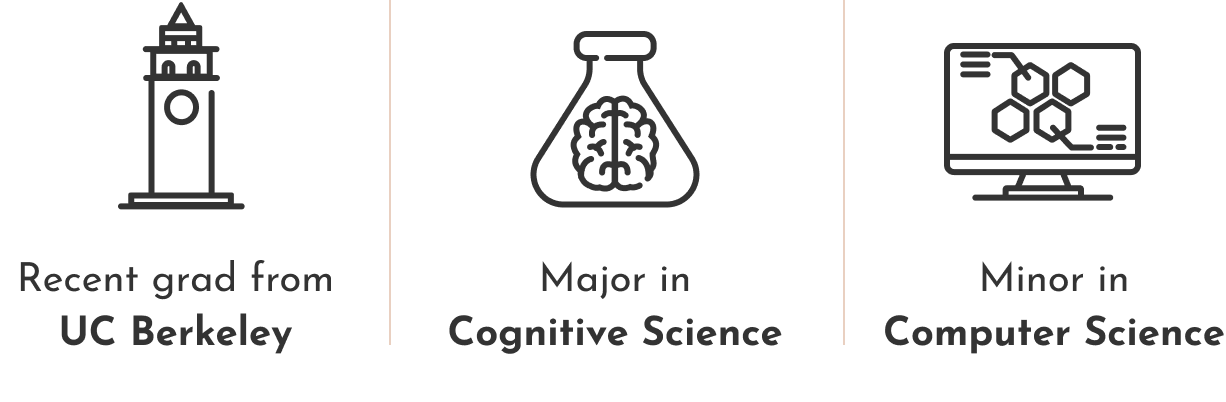
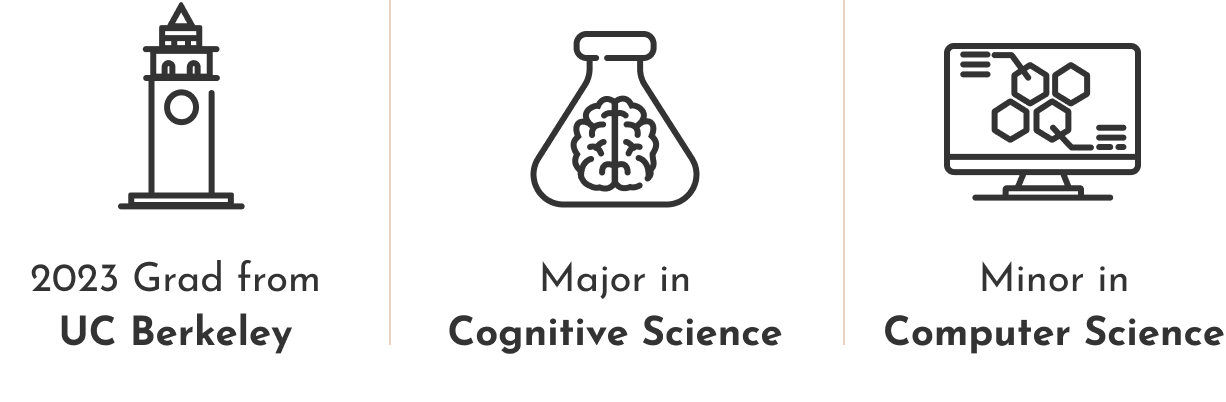
added art page and updated info

Changed region(s): [[0.0, 0.6269, 0.279, 0.7463]]

diff --git a/src/pages/About/About.tsx b/src/pages/About/About.tsx
@@ -24,19 +24,20 @@ const About = () => {
               Background
             </Typography>
             <Typography variant="body2">
-              I have a very technical education because of my courses and
-              involvment in two tech clubs on campus. I gained a lot of
-              technical experience through my on-campus organization called
-              Blueprint, where we build web and mobile applications for
-              non-profits. All of my design skills are from online courses,
-              youtube videos, and a lot of google searches! I gained industry
-              experience in the past two years through design and software
-              engineering internships, and am now{" "}
+              Hi! My name is Sami and I'm a developer with previous experience
+              as a designer. My coding background comes from my CS courses and
+              involvment in two tech clubs during my time at Berkeley. In
+              college, I gained a lot of technical experience through my
+              on-campus organization called Blueprint, where we built web and
+              mobile applications for non-profits. All of my design skills are
+              from online courses, youtube videos, and a lot of google searches!
+              I gained industry experience throughout the past three years
+              through my current full-time Web Developer role as well as design
+              and software engineering internships in the past. I am always{" "}
               <span style={{ fontWeight: "bolder" }}>
-                pursing a full time role in software engineering
-              </span>
-              . I’m always looking for more fun projects and experiences to
-              continue growing my skillset!
+                looking for open roles in software engineering
+              </span>{" "}
+              to continue growing my skillset!
             </Typography>
           </Stack>
         </Stack>
@@ -61,7 +62,7 @@ const About = () => {
             <Typography variant="body2">
               I’ve played competetive volleyball since sixth grade, and have
               traveled to over 10 states to play in tournaments. Now I play on a
-              recreational intramural team with my friends.
+              recreational team with my friends.
             </Typography>
           </Stack>
 
@@ -69,9 +70,8 @@ const About = () => {
             <img src={chef} alt="chef" className={styles.smallimg} />
             <Typography variant="body2">
               I randomly get cravings for a specific food, so I started learning
-              very diverse recipes. I once made a chicken pot pie (even the
-              dough!) from scratch and that was my first time trying chicken pot
-              pie.
+              very diverse recipes. Recently, I've been obsessed with making
+              sourdough and have been selling loaves to friends and coworkers.
             </Typography>
           </Stack>
 
@@ -85,14 +85,18 @@ const About = () => {
             </Typography>
             <img src={painting} alt="painting" className={styles.smallimg} />
             <Typography variant="body2">
-              I started painting in high school when I made my friends posters
-              for their sports games. This addiction continued and now I’ve
-              decorated my entire apartment with (exlusiely cat-themed)
-              paintings.
+              I've hyperfixated on all types of crafts throughout the years.
+              Painting, pottery, rug tufting, crochet, and now knitting. Click
+              on the art tab so see what I've been creating recently!
             </Typography>
           </Stack>
         </Stack>
-        <Stack direction="row" spacing="5%" alignItems={"center"} padding={"10% 0 10% 0"}>
+        <Stack
+          direction="row"
+          spacing="5%"
+          alignItems={"center"}
+          padding={"10% 0 10% 0"}
+        >
           <img src={cookbook} alt="cookbook" className={styles.halfimg} />
 
           <Stack sx={{ paddingRight: "5%", textAlign: "right" }}>

diff --git a/src/pages/Art/Art.tsx b/src/pages/Art/Art.tsx
@@ -1,12 +1,81 @@
+import ArtCard from "../../components/ArtCard/ArtCard";
 import Navbar from "../../components/Navbar/Navbar";
-import art from "../../images/art.png";
+import styles from "../../components/ArtCard/ArtCard.module.css";
+
+import slippers from "../../images/sailorSlippers.png";
+import milotte from "../../images/milotte.png";
+import bluestripe from "../../images/bluestripe.png";
+import whitev from "../../images/newbieWhite.png";
+import junctionmitten from "../../images/mittenJunction.png";
+import tomato from "../../images/tomato.png";
+import miffy from "../../images/miffy.png";
+import kiwi from "../../images/kiwi.png";
+import slugs from "../../images/slugs.png";
+import suki from "../../images/suki.png";
+import hamburger from "../../images/hamburger.png";
 
 const Art = () => {
   return (
     <div style={{ minHeight: "100vw" }}>
       <Navbar />
-      <div style={{ textAlign: "center", padding: "5% 5% 5% 5%" }}>
-        <img src={art} alt="art" width={"50%"} />
+      <div className={styles.cardsDiv}>
+        <div className={styles.cardDiv}>
+          <ArtCard
+            img={slippers}
+            title="Sailor Slippers"
+            info="Pattern by Annie Sews"
+          />
+        </div>
+        <div className={styles.cardDiv}>
+          <ArtCard
+            img={milotte}
+            title="Elle Tee + Marie Sweater"
+            info="Patterns by Millote"
+          />
+        </div>
+        <div className={styles.cardDiv}>
+          <ArtCard
+            img={bluestripe}
+            title="Newbie Sweater V-Neck"
+            info="Pattern by DreamKnit"
+          />
+        </div>
+        <div className={styles.cardDiv}>
+          <ArtCard
+            img={whitev}
+            title="Newbie Sweater V-Neck"
+            info="Pattern by DreamKnit"
+          />
+        </div>
+        <div className={styles.cardDiv}>
+          <ArtCard
+            img={junctionmitten}
+            title="Junction Beanie + Matilda Mitten"
+            info="Patterns by Cosmaudi + JuicyLu"
+          />
+        </div>
+        <div className={styles.cardDiv}>
+          <ArtCard img={tomato} title="Tomato Beanie" info="Freehand Crochet" />
+        </div>
+        <div className={styles.cardDiv}>
+          <ArtCard img={miffy} title="Miffy Beanie" info="Freehand Crochet" />
+        </div>
+        <div className={styles.cardDiv}>
+          <ArtCard
+            img={hamburger}
+            title="Hamburger Beanie"
+            info="Freehand Crochet"
+          />
+        </div>
+        <div className={styles.cardDiv}>
+          <ArtCard img={kiwi} title="Tufted Rugs" info="" />
+        </div>
+        <div className={styles.cardDiv}>
+          <ArtCard img={slugs} title="Tufted Rugs" info="" />
+        </div>
+        <div className={styles.cardDiv}>
+          <ArtCard img={suki} title="Tufted Rugs" info="" />
+        </div>
       </div>
     </div>
   );

diff --git a/src/App.css b/src/App.css
@@ -2,44 +2,51 @@
 /* josefin-sans-300 - latin */
 @font-face {
   font-display: swap; /* Check https://developer.mozilla.org/en-US/docs/Web/CSS/@font-face/font-display for other options. */
-  font-family: 'Josefin Sans';
+  font-family: "Josefin Sans";
   font-style: normal;
   font-weight: 300;
-  src: url('./fonts/josefin-sans-v26-latin/josefin-sans-v26-latin-300.woff2') format('woff2'); /* Chrome 36+, Opera 23+, Firefox 39+, Safari 12+, iOS 10+ */
+  src: url("./fonts/josefin-sans-v26-latin/josefin-sans-v26-latin-300.woff2")
+    format("woff2"); /* Chrome 36+, Opera 23+, Firefox 39+, Safari 12+, iOS 10+ */
 }
 /* josefin-sans-regular - latin */
 @font-face {
   font-display: swap; /* Check https://developer.mozilla.org/en-US/docs/Web/CSS/@font-face/font-display for other options. */
-  font-family: 'Josefin Sans';
+  font-family: "Josefin Sans";
   font-style: normal;
   font-weight: 400;
-  src: url('./fonts/josefin-sans-v26-latin/josefin-sans-v26-latin-regular.woff2') format('woff2'); /* Chrome 36+, Opera 23+, Firefox 39+, Safari 12+, iOS 10+ */
+  src: url("./fonts/josefin-sans-v26-latin/josefin-sans-v26-latin-regular.woff2")
+    format("woff2"); /* Chrome 36+, Opera 23+, Firefox 39+, Safari 12+, iOS 10+ */
 }
 @font-face {
-	src: url(./fonts/Josefin_Sans/JosefinSans-VariableFont_wght.ttf);
-	font-family: sans;
-	font-weight: normal;
-}
-
-@font-face {
-	src: url(./fonts/Abril_Fatface/AbrilFatface-Regular.ttf);
-	font-family: fatface;
-	font-weight: normal;
+  src: url(./fonts/Josefin_Sans/JosefinSans-VariableFont_wght.ttf);
+  font-family: sans;
+  font-weight: normal;
 }
 
 @font-face {
-	src: url(./fonts/Cormorant/Cormorant-Light.ttf);
-	font-family: cormorant;
-	font-weight: normal;
+  src: url(./fonts/Abril_Fatface/AbrilFatface-Regular.ttf);
+  font-family: fatface;
+  font-weight: normal;
 }
 
 @font-face {
-	src: url(./fonts/Canela-Thin-Web.woff);
-	font-family: canela;
-	font-weight: normal;
+  src: url(./fonts/Cormorant/Cormorant-Light.ttf);
+  font-family: cormorant;
+  font-weight: normal;
+}
+
+@font-face {
+  src: url(./fonts/Canela-Thin-Web.woff);
+  font-family: canela;
+  font-weight: normal;
+}
+body {
+  background-color: #f2ece2;
 }
 .App {
-  background-color: #F2ECE2;
+  background-color: #f2ece2;
+  height: 100%;
+  margin: 0;
   font-family: sans;
   color: #333333;
 }

diff --git a/src/components/ArtCard/ArtCard.module.css b/src/components/ArtCard/ArtCard.module.css
@@ -1,0 +1,57 @@
+.cardsDiv {
+  padding: 5% 5% 10% 5%;
+  display: flex;
+  flex-wrap: wrap;
+  justify-content: center;
+}
+
+.cardDiv {
+  margin: 2%;
+  justify-self: center;
+}
+
+.mobileCard {
+  width: 225px;
+  height: 300px;
+  position: relative;
+}
+
+.card {
+  width: 300px;
+  height: 400px;
+  position: relative;
+}
+
+.imgDiv {
+  position: absolute;
+  width: 100%;
+  height: 100%;
+  z-index: 1;
+}
+
+.img {
+  width: 100%;
+  height: auto;
+  object-fit: contain;
+  border-radius: 20px;
+}
+
+.overlay {
+  color: transparent;
+  position: absolute;
+  width: 100%;
+  height: 100%;
+  z-index: 2;
+}
+
+.overlay:hover {
+  background-color: rgba(0, 0, 0, 0.3);
+  text-align: center;
+  color: white;
+  border-radius: 20px;
+}
+
+.title {
+  padding: 40px 5px 15px 5px;
+  font-weight: bold;
+}

diff --git a/src/components/ArtCard/ArtCard.tsx b/src/components/ArtCard/ArtCard.tsx
@@ -1,0 +1,34 @@
+import { Typography } from "@mui/material";
+import styles from "./ArtCard.module.css";
+import useScreenSize from "../ScreenSize";
+
+const ArtCard = ({
+  img,
+  title,
+  info,
+}: {
+  img: string;
+  title: string;
+  info: string;
+}) => {
+  const isMobile = useScreenSize();
+
+  return (
+    <div className={isMobile ? styles.mobileCard : styles.card}>
+      <div className={styles.imgDiv}>
+        <img src={img} className={styles.img} alt="art project" />
+      </div>
+
+      <div className={styles.overlay}>
+        <Typography variant="h3" className={styles.title}>
+          {title}
+        </Typography>
+        <Typography variant="body1" className={styles.info}>
+          {info}
+        </Typography>
+      </div>
+    </div>
+  );
+};
+
+export default ArtCard;

diff --git a/src/components/ScreenSize.js b/src/components/ScreenSize.js
@@ -1,0 +1,22 @@
+import { useState, useEffect } from "react";
+
+const useScreenSize = () => {
+  const [isMobile, setIsMobile] = useState(window.innerWidth <= 600);
+
+  useEffect(() => {
+    const handleResize = () => {
+      setIsMobile(window.innerWidth <= 600);
+    };
+
+    window.addEventListener("resize", handleResize);
+
+    // Clean up the event listener when the component unmounts
+    return () => {
+      window.removeEventListener("resize", handleResize);
+    };
+  }, []);
+
+  return isMobile;
+};
+
+export default useScreenSize;
